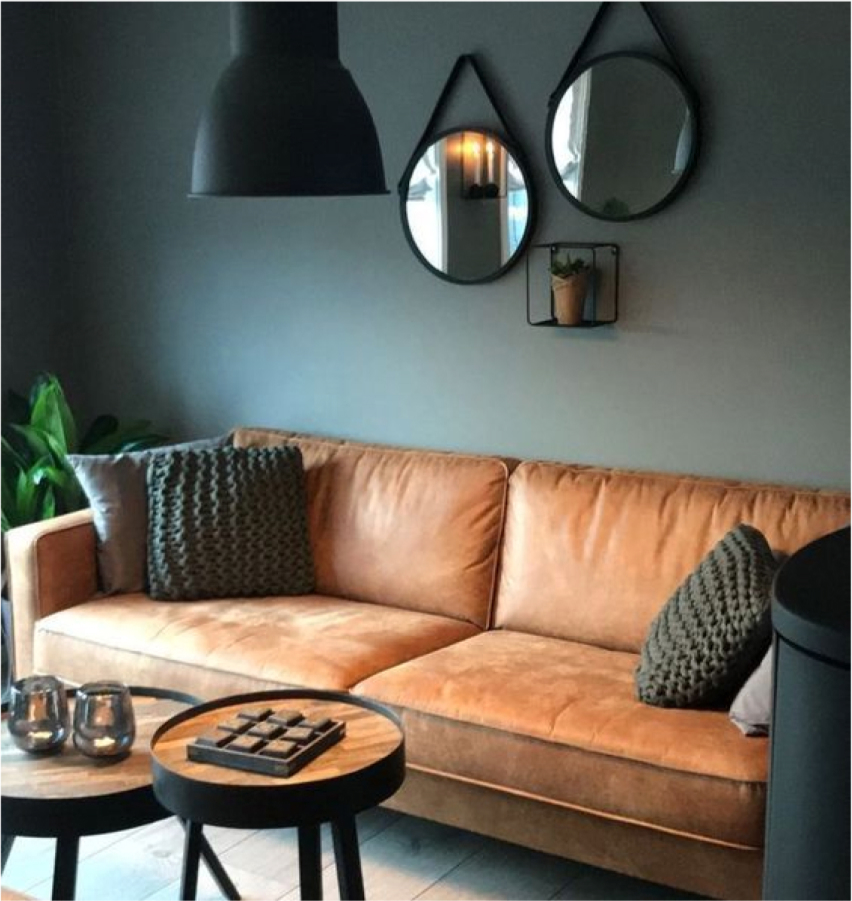
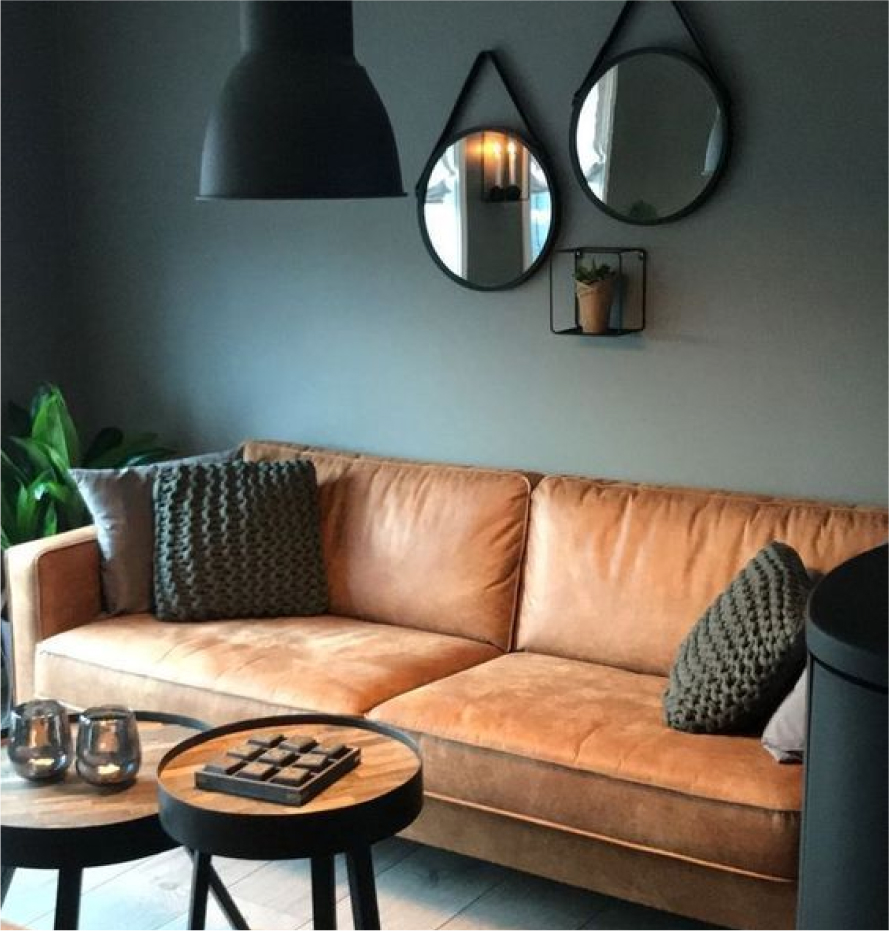
changement de taille de photos, travaillé sur responsive

diff --git a/src/style/component/modale.scss b/src/style/component/modale.scss
@@ -1,76 +1,100 @@
-.modal{
-    
+.modal-backround {
+  position: fixed;
+  background-color: rgba(0, 0, 0, 0.7);
+  z-index: 1;
+  width: 100%;
+  height: 100%;
+  top: 0;
+  left: 0;
+
+  .modal {
     position: fixed;
-    
+    position: relative;
     inset: 0;
 
     z-index: 1000;
     display: flex;
     justify-content: center;
     margin: 4% auto;
-    
+  }
+  .modal-content {
+    width: 500px;
 
-}
-.modal-backround{
+    position: relative;
     position: fixed;
-    background-color: rgba(0, 0, 0, .7);
-    z-index: 1;
-    width: 100%;
-    height: 100%;
-    top: 0;
-    left: 0;
-    
-}
-
-// .overlay{
-// width: 100vw;
-// height: 100vh;
-// position: fixed;
-
-// top: 0;
-// left: 0;
-// right: 0;
-// bottom: 0;
-// }
-
-.open-mdl-text{
-    // visibility: hidden;
-    opacity: 0;
-}
-.open-modal :hover{
-   opacity: 1;
-   background-color: #fff;
-}
-.modal-content{
-    width: 600px;
-
+    top: 14%;
     background: #fff;
-   
     border-radius: 15px;
     padding: 25px;
-}
-.close-modal{
-   position: absolute;
-    top: 20px;
-    right: 26rem;
+    .apercu {
+      margin: 20px 0;
+      font-size: 20px;
+      font-weight: 700;
+      a {
+        text-decoration: none !important;
+        color: inherit;
+      }
+      h2 {
+        margin: 20px 0;
+      }
+    }
+  }
+  .close-modal {
+    position: absolute;
+    top: 5%;
+    right: 8%;
     border-radius: 8px;
     padding: 10px;
     font-size: 15px;
     color: DarkGoldenrod;
     font-weight: 700;
     border: DarkGoldenrod 2px solid;
+  }
 }
 
-
 @media screen and (max-width: 768px) {
-    .modal-content{
-        width: 50%;
-        height: 50%;
-    
-        background: #fff;
-       
-        border-radius: 15px;
-        padding: 25px;
+  .modal {
+    margin: 0 20px;
+
+    .modal-content {
+      top: 0%;
+      width: 77%;
+      height: 71%;
+      border-radius: 15px;
+      padding: 25px;
+      margin: 20% 0;
+      h3,
+      a,
+      span {
+        font-size: 15px;
+      }
+
+      img {
+        width: 100%;
+        height: auto;
+        max-height: 326px;
+        min-height: auto;
+        object-fit: cover;
+      }
+    }
+    .close-modal {
+      top: 7%;
+      right: 7%;
+      font-size: 10px;
     }
   }
-  
+}
+
+@media screen and (max-width: 1028px) {
+  .card-container {
+    display: flex;
+    flex-direction: column;
+  }
+  .modal-content {
+    width: 700px;
+    height: 50%;
+    img {
+      object-fit: fill;
+    }
+  }
+}

diff --git a/src/style/component/_cards.scss b/src/style/component/_cards.scss
@@ -6,22 +6,21 @@
   padding: 0 50px;
 
   .card-list {
-
     width: 100%;
     margin-bottom: 50px;
-   
-    
 
     img {
       width: 100%;
+      max-width: 100%;
+      height: 100%;
       min-height: 75%;
-      max-height: 326px;
+      max-height: 348px;
       background-size: cover;
       background-position: center;
       background-repeat: no-repeat;
       border-radius: 15px;
       border: white solid 2px;
-     
+      object-fit: cover;
     }
 
     h2 {
@@ -29,27 +28,19 @@
     }
   }
 }
-.modal-content .apercu{
-  margin: 20px 0;
-  font-size: 20px;
-  font-weight: 700;
-  a{
-    text-decoration: none !important;
-    color: inherit;
-  }
-  h2{
-    margin: 20px 0;
-  }
-}
-
 
 @media screen and (max-width: 768px) {
-  .card-container{
+  .card-container {
     display: flex;
     flex-direction: column;
     padding: 0 20px;
   }
-  .card-list {
-
+}
+@media screen and (max-width: 1028px) {
+  .card-container {
+    display: flex;
+    flex-direction: column;
+    img {
+    }
   }
 }

diff --git a/src/style/component/_contactForm.scss b/src/style/component/_contactForm.scss
@@ -37,5 +37,22 @@
         display: flex;
         justify-content: center;
        }
+
+       @media screen and (max-width: 768px) {
+        .container{
+          display: flex;
+          flex-direction: column;
+          align-items: center;
+          text-align: center;
+          padding: 0 20px;
+          p {
+            width: 65%;
+              }
+              input, textarea{
+                width: 60%;
+              }
+        }
        
+      }
+      
    

diff --git a/src/Components/cards.jsx b/src/Components/cards.jsx
@@ -11,7 +11,7 @@ export default function Cards({ id, image, name, alt,language,link }) {
     <div>
       <h2> {name} </h2>
       <img onClick={toggleModal} className="open-modal" src={image} />
-      <p className="open-mdl-text" >open</p>
+      <p className="open-mdl-text" ></p>
 
       {modal && (
         <div className="modal-backround" >
